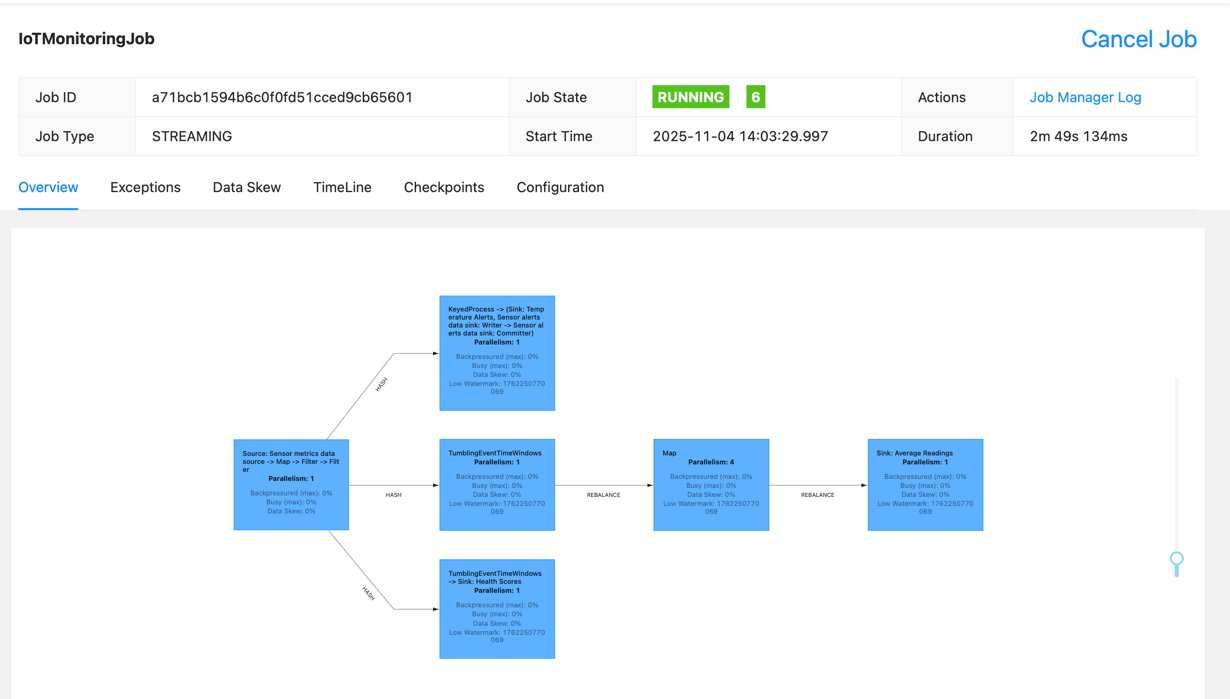
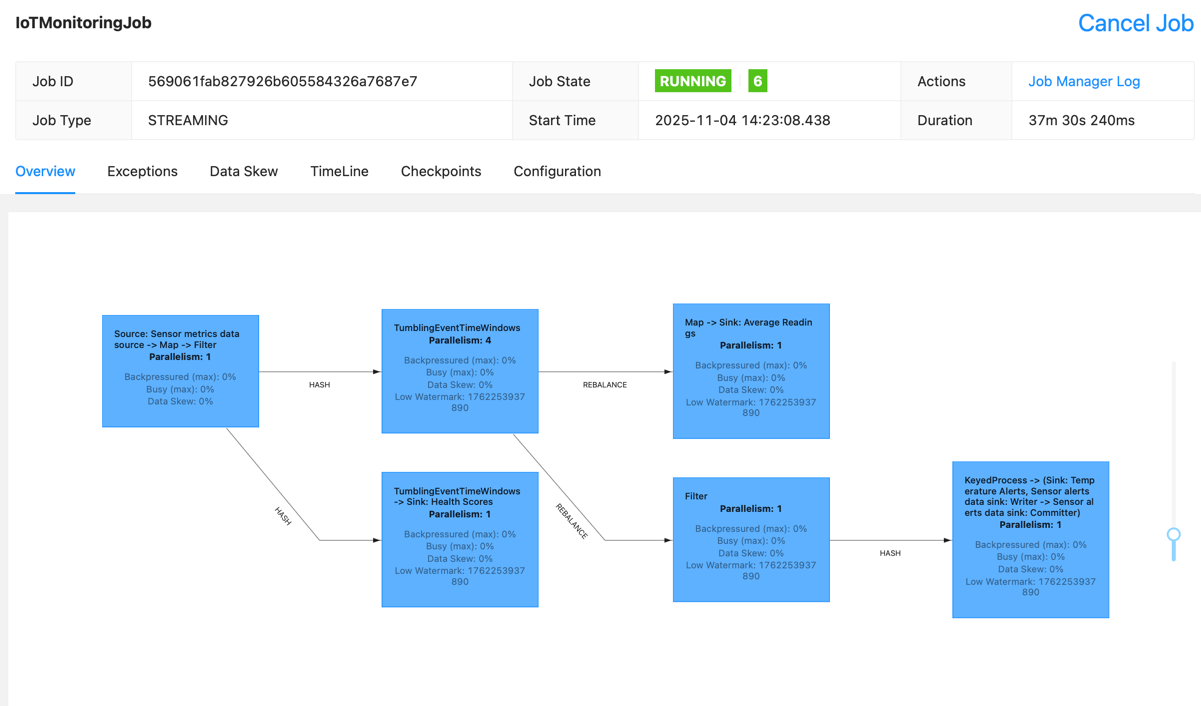
Add readme for project

diff --git a/flink-sensors-jobs/src/main/java/ru/sinitsynme/sensors/jobs/IoTMonitoringJob.java b/flink-sensors-jobs/src/main/java/ru/sinitsynme/sensors/jobs/IoTMonitoringJob.java
@@ -79,7 +79,7 @@ public class IoTMonitoringJob {
                 .keyBy(metric -> metric.machineId() + "-" + metric.type())
                 .process(new AlertFunction(temperatureAlertThreshold));
 
-        DataStream<String> healthScores = sensorMetricsData
+        DataStream<String> healthScores = averageMetrics
                 .keyBy(SensorMetric::machineId)
                 .window(TumblingEventTimeWindows.of(Duration.ofSeconds(30)))
                 .process(new HealthScoreProcessFunction());

diff --git a/flink-sensors-jobs/src/main/java/ru/sinitsynme/sensors/HealthScoreProcessFunction.java b/flink-sensors-jobs/src/main/java/ru/sinitsynme/sensors/HealthScoreProcessFunction.java
@@ -54,7 +54,7 @@ public class HealthScoreProcessFunction extends ProcessWindowFunction<SensorMetr
             }
         }
 
-        return Math.max(0, score); // Don't go below 0
+        return Math.max(0, score);
     }
 
     private String getHealthStatus(double score) {

diff --git a/README.md b/README.md
@@ -1,0 +1,82 @@
+# Flink Sensors
+
+Demonstration of Apache Flink streaming features
+
+## Description of the project
+
+Let's pretend we need to collect various metrics of hardware and manipulate them: 
+- aggregate average metrics of machine sensor by period (we need stable data);
+- send alerts if we find that one metric is beyond the set threshold;
+- calculate health-score for machine to decide if it is efficient overall
+
+We have only one source of data that we need to modify and output in various ways: 
+- collect average metrics by machine and timestamp to visualize it on dashboards;
+- send alerts to other systems as events to have a reaction;
+- save health-score to storage to analyze it later.
+
+Apache Flink can help us to manage all these flows of data
+
+
+## Launching project
+
+Requirements: Docker, Java 17.
+
+1. Launch all containers: `docker compose up -d`. Launched containers: 
+   1. Zookeeper
+   2. Kafka
+   3. Kafka topic creator (topics with partitions)
+   4. Kafka UI to watch all topics activity
+   5. Flink Job Manager
+   6. Flink Task Manager (2 replicas)
+2. Wait until all topics are created
+3. Execute `./gradlew build` on [flink-sensors-jobs](flink-sensors-jobs)
+4. If you want to launch job with UI:
+   1. Go to http://localhost:18081 and walk to `Submit new job`
+   2. Choose flink-sensors-jobs-all.jar (shadowed jar) and set `ru.sinitsynme.sensors.jobs.IoTMonitoringJob` as Entry class
+   ![flink-ui-launching-jar.png](screenshots/flink-ui-launching-jar.png)
+   3. Submit
+5. Else you can do it by REST API:
+   1. Send JAR: `curl -X POST -H "Expect:" -F "jarfile=@./flink-sensors-jobs/build/libs/flink-sensors-jobs-all.jar" http://localhost:18081/jars/upload`
+   2. Take JAR_ID from result. Example result (JAR_ID is bold): {"filename":"/tmp/flink-web-0d6f0f9d-2260-4c1b-968f-7d15d7dbf394/flink-web-upload/**d4181d27-52f4-4eea-a79e-9888e362a8aa_flink-sensors-jobs-all.jar**","status":"success"}
+   3. Submit Job Request
+   <code>curl -X POST http://localhost:18081/jars/<JAR_ID>/run \
+         -H "Content-Type: application/json" \
+         -d '{
+               "entryClass": "ru.sinitsynme.sensors.jobs.IoTMonitoringJob"
+             }'
+   </code>
+6. Go to `Jobs -> Running Jobs` in UI to watch the result
+![flink-ui-example.png](screenshots/flink-ui-example.png)
+
+## Architecture of the project
+
+![flink-sensors.drawio.png](screenshots/flink-sensors.drawio.png)
+
+Java project is separated in three modules: 
+- [flink-sensors-data-generator](flink-sensors-data-generator)
+  - module for fake generation of sensor metrics
+  - can be configured by application.properties
+- [flink-sensors-jobs](flink-sensors-jobs)
+  - module for storing flink jobs in one jar
+  - may contain more than one job
+  - can be configured by application.properties
+
+### Input
+
+Modeled by fake generated sensor metrics, depending on random.
+
+Sends generated data to sensor-metrics-data Kafka topic
+
+### Processing
+Happens in [IoTMonitoringJob.java](flink-sensors-jobs/src/main/java/ru/sinitsynme/sensors/jobs/IoTMonitoringJob.java)
+
+sensor-metrics-data Kafka topic is consumed by Apache Flink:
+- source is watermarked to prevent delayed data
+- source metrics are aggregated with TumblingEventTimeWindow into average metrics stream by [AverageMetricAggregate.java](flink-sensors-jobs/src/main/java/ru/sinitsynme/sensors/AverageMetricAggregate.java). Parallelism is set to 4 to make CPU-bounded operations quicker
+  - stream entries are mapped into string to log them
+  - stream entries are processed by stateful [AlertFunction.java](flink-sensors-jobs/src/main/java/ru/sinitsynme/sensors/alert/AlertFunction.java). If alert opens or closes, we send message to sensor-alerts Kafka topic
+  - stream entries are processed by non-stateful [HealthScoreProcessFunction.java](flink-sensors-jobs/src/main/java/ru/sinitsynme/sensors/HealthScoreProcessFunction.java) and calculates health-score of machine by simple business-rules
+
+### TBC 
+- Going to add Prometheus sink and grafana to output collected average metrics
+- Going to add Clickhouse sink to store historical health scores
